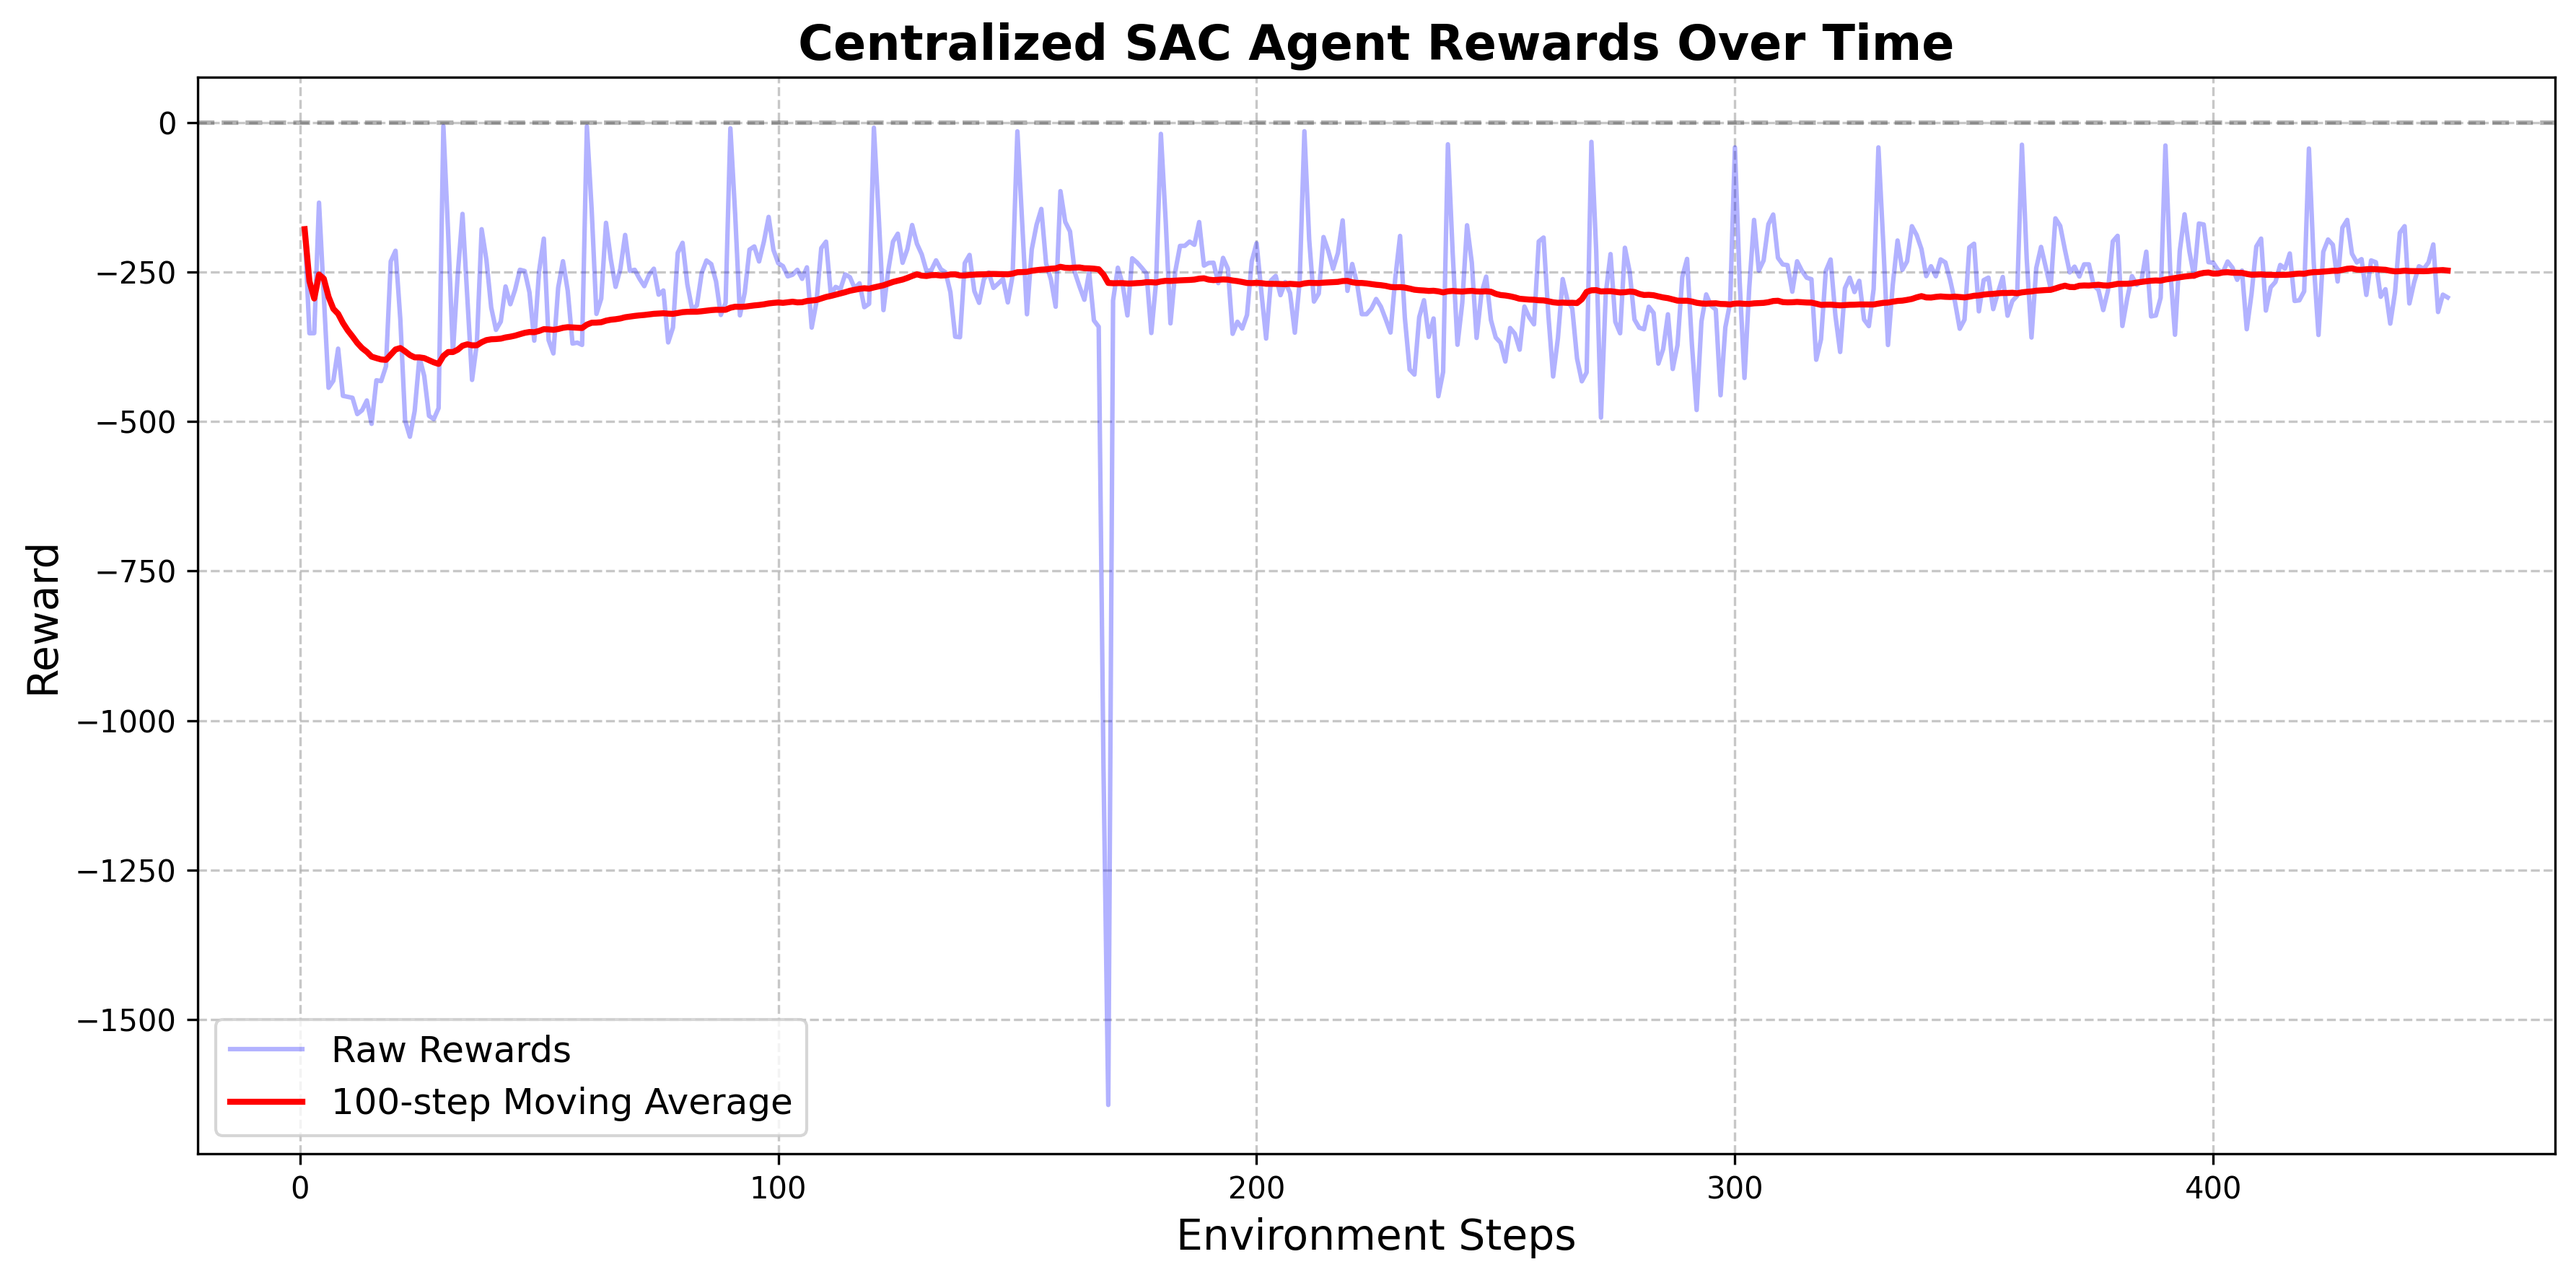
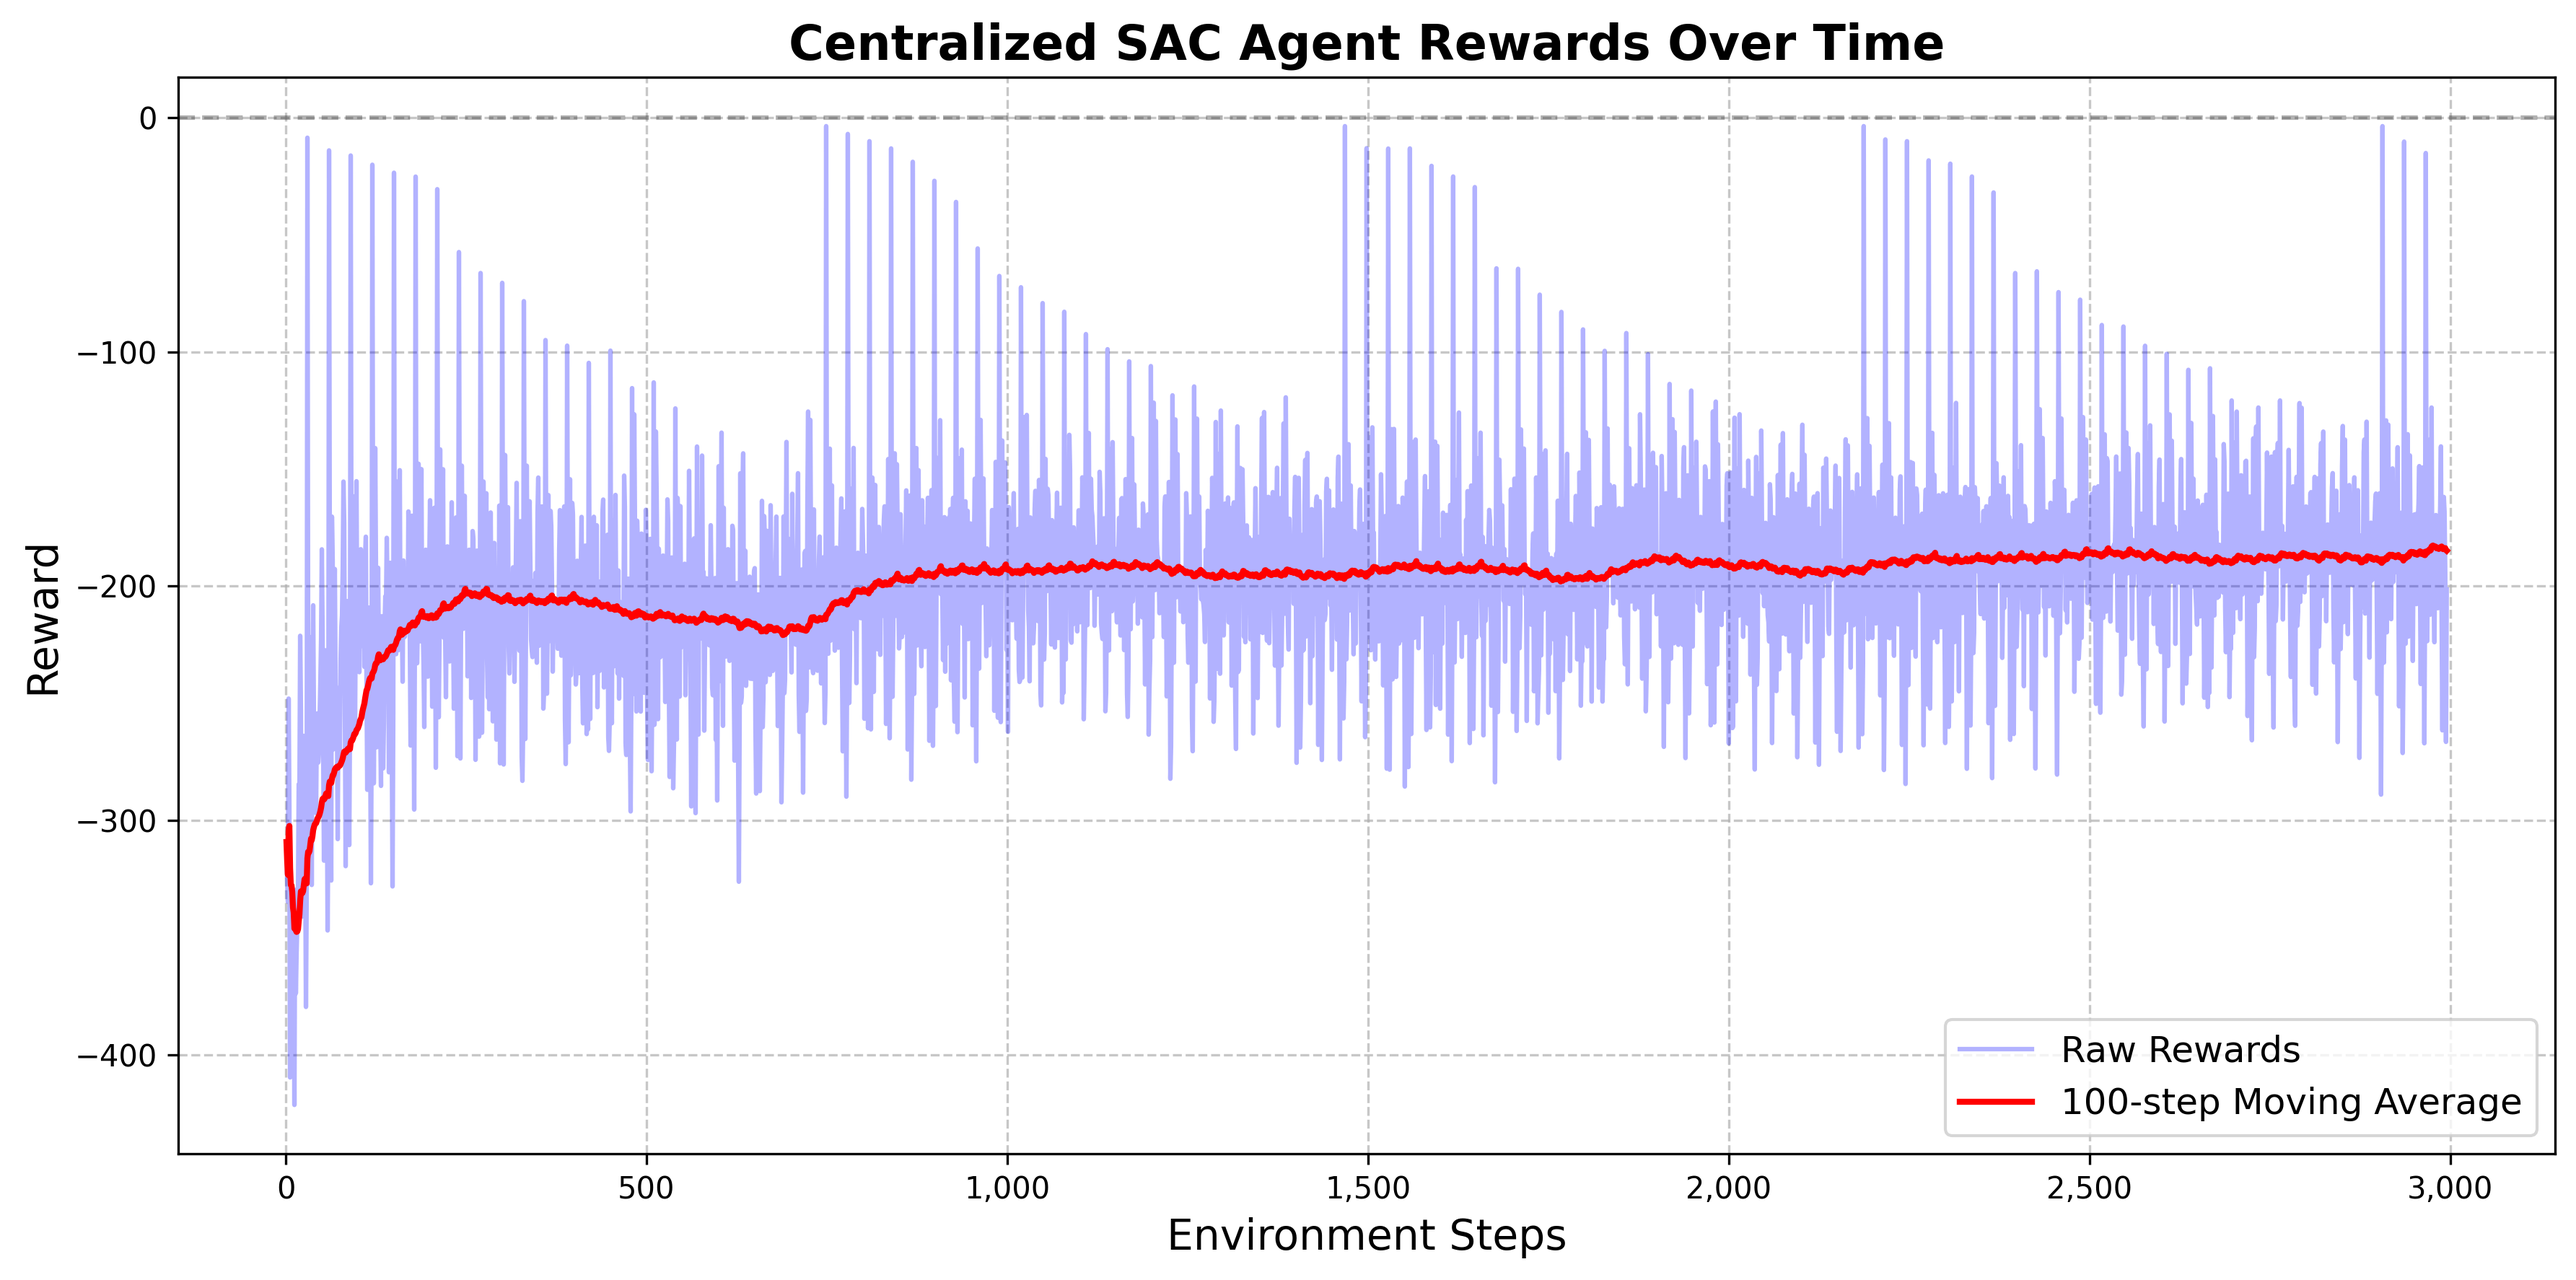
minor adjustments to testing the agents, logic unchanged

diff --git a/src/test_sac_agents.py b/src/test_sac_agents.py
@@ -231,17 +231,17 @@ def plot_rewards(rewards: list[float], agent_type: str = "centralized", plot_fol
 if __name__ == "__main__":
     
     # Create the environments
-    #centralized_env = create_environment(central_agent=True, SEED=0,  path="data/citylearn_challenge_2023_phase_1")
-    decentralized_env = create_environment(central_agent=False, SEED=0,  path="data/citylearn_challenge_2023_phase_1")
+    centralized_env = create_environment(central_agent=True, SEED=0,  path="data/citylearn_challenge_2023_phase_1")
+    #decentralized_env = create_environment(central_agent=False, SEED=0,  path="data/citylearn_challenge_2023_phase_1")
     
     # Create the agents
-    #centralized_agent = create_agents(centralized_env, central_agent=True)
-    decentralized_agent = create_agents(decentralized_env, central_agent=False)
+    centralized_agent = create_agents(centralized_env, central_agent=True)
+    #decentralized_agent = create_agents(decentralized_env, central_agent=False)
     
     # Train the agent
-    #rewards_centralized, episode_rewards_centralized, daily_rewards_centralized = train_sac_agent(centralized_env, centralized_agent, episodes=15, central_agent=True)
-    rewards_decentralized, episode_rewards_decentralized, daily_rewards_decentralized = train_sac_agent(decentralized_env, decentralized_agent, episodes=15, central_agent=False)
+    rewards_centralized, episode_rewards_centralized, daily_rewards_centralized = train_sac_agent(centralized_env, centralized_agent, episodes=100, central_agent=True)
+    #rewards_decentralized, episode_rewards_decentralized, daily_rewards_decentralized = train_sac_agent(decentralized_env, decentralized_agent, episodes=15, central_agent=False)
     
     # Plot the rewards
-    #plot_rewards(daily_rewards_centralized, agent_type="centralized", plot_folder="plots/")
-    plot_rewards(daily_rewards_decentralized, agent_type="decentralized", plot_folder="plots/")
+    plot_rewards(daily_rewards_centralized, agent_type="centralized", plot_folder="plots/")
+    #plot_rewards(daily_rewards_decentralized, agent_type="decentralized", plot_folder="plots/")

diff --git a/src/mata(sac_encoder_test).py b/src/mata(sac_encoder_test).py
@@ -108,7 +108,7 @@ def train_sac_agent(
         episode_rewards.append(episode_reward)
         
         print(f"Episode {episode+1}/{episodes}, Total Reward: {episode_reward}")
-    print(day_rewards)
+    #print(day_rewards)
     return reward_list, episode_rewards, day_rewards
 
 
@@ -165,7 +165,7 @@ def create_agents(env: CityLearnEnv, central_agent: bool = False,
         Agent or a list of agents
     """
     if central_agent:
-        observation_space_dim = 30 #77
+        observation_space_dim = 30 #77 TEST WITH SOME LARGER NUMBERS
         action_space_dim = 18
         building_number = 1
     else:
@@ -253,7 +253,7 @@ if __name__ == "__main__":
     #decentralized_agent = create_agents(decentralized_env, central_agent=False)
     
     # Train the agent
-    rewards_centralized, episode_rewards_centralized, daily_rewards_centralized = train_sac_agent(centralized_env, centralized_agent, episodes=8, central_agent=True)
+    rewards_centralized, episode_rewards_centralized, daily_rewards_centralized = train_sac_agent(centralized_env, centralized_agent, episodes=100, central_agent=True)
     #rewards_decentralized, episode_rewards_decentralized, daily_rewards_decentralized = train_sac_agent(decentralized_env, decentralized_agent, episodes=15, central_agent=False)
     
     # Plot the rewards

diff --git a/src/random_rewards.py b/src/random_rewards.py
@@ -15,16 +15,16 @@ random_model = RandomAgent(env)
 
 # MAKE FOR BOTH CENTRALIZED AND DECENTRALIZED TO COMPARE
 
-rewards = []
 low_reward_dict = {}
 # round all rewards to 3 decimals to make them more readable
 for i in range (20):
     observations = env.reset()
+    rewards = []
     while not env.done:
         actions = random_model.predict(observations)
         observations, reward, info, done = env.step(actions)
         rewards.append(round(np.sum(reward), 3))
-    print(i)
+    print(f"episode {i} Total reward: {np.sum(rewards)}")
     #print(min(rewards), max(rewards), np.mean(rewards))
 
 q25 = np.quantile(rewards, 0.25)  # 25th percentile (1st quartile)
